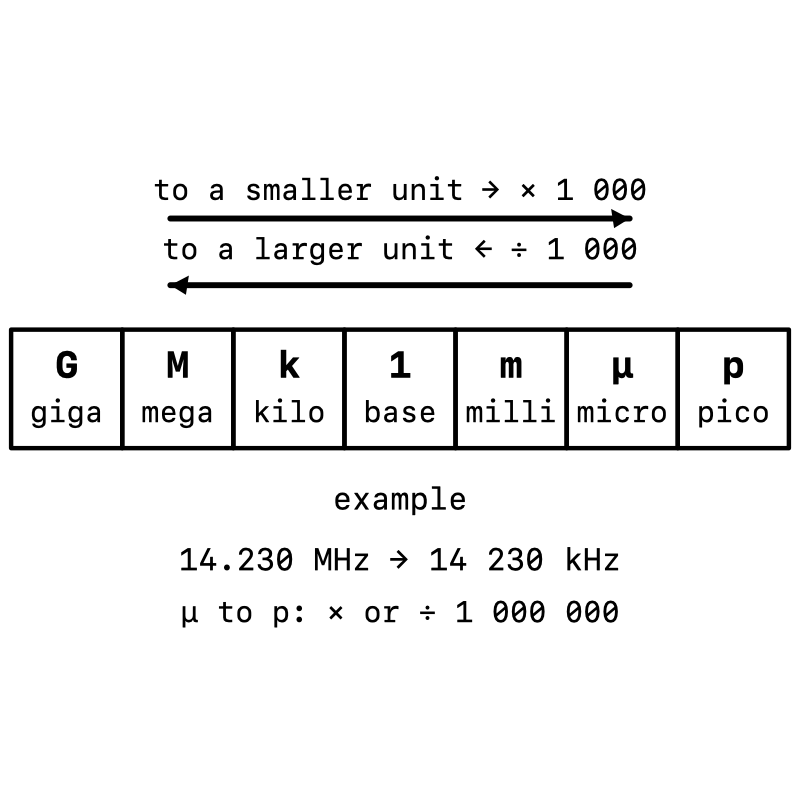
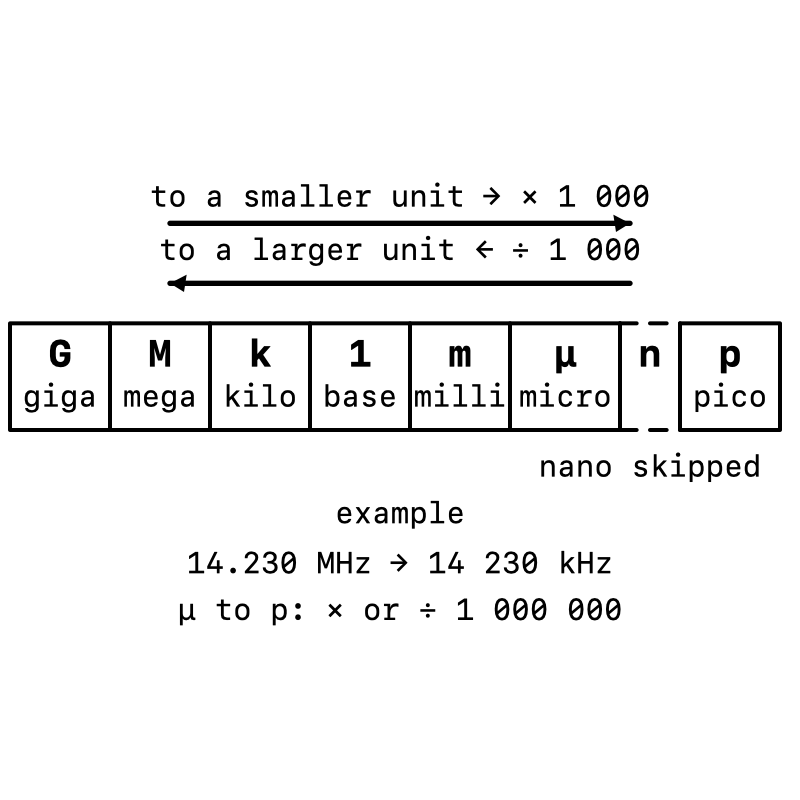
task-38.2 show skipped nano in prefix ladder

diff --git a/content/lessons/m5-basic-electronics/l-005-01-units-conductors-current.md b/content/lessons/m5-basic-electronics/l-005-01-units-conductors-current.md
@@ -51,11 +51,11 @@ A prefix tells you how many base units are being counted. In Basic exam electron
 | pico | p | a trillionth | 0.47 µF = 470 000 pF |
 
 ::figure metric-prefix-ladder
-Alt text: Metric prefix ladder from giga to pico showing multiply or divide direction notes, including the larger micro-to-pico jump because nano is skipped.
+Alt text: Metric prefix ladder from giga to pico showing multiply or divide direction arrows and a skipped nano marker between micro and pico.
 Text equivalent:
-- Prefix order in the lesson table: G giga, M mega, k kilo, base unit, m milli, µ micro, p pico.
-- Moving toward smaller units multiplies by 1 000 for each adjacent step through micro; moving toward larger units divides by 1 000 for those same steps.
-- The micro-to-pico step is x 1 000 000 toward pico, or ÷ 1 000 000 toward micro, because nano is not included in this table.
+- Prefix order in the lesson table: G giga, M mega, k kilo, base unit, m milli, µ micro, p pico; the figure marks nano as skipped between micro and pico.
+- Moving toward smaller units multiplies by 1 000 for each adjacent active step through micro; moving toward larger units divides by 1 000 for those same steps.
+- The micro-to-pico step is x 1 000 000 toward pico, or ÷ 1 000 000 toward micro, because nano is only shown as a skipped marker and is not included in this table.
 - Example: 14.230 MHz = 14 230 kHz.
 ::
 
